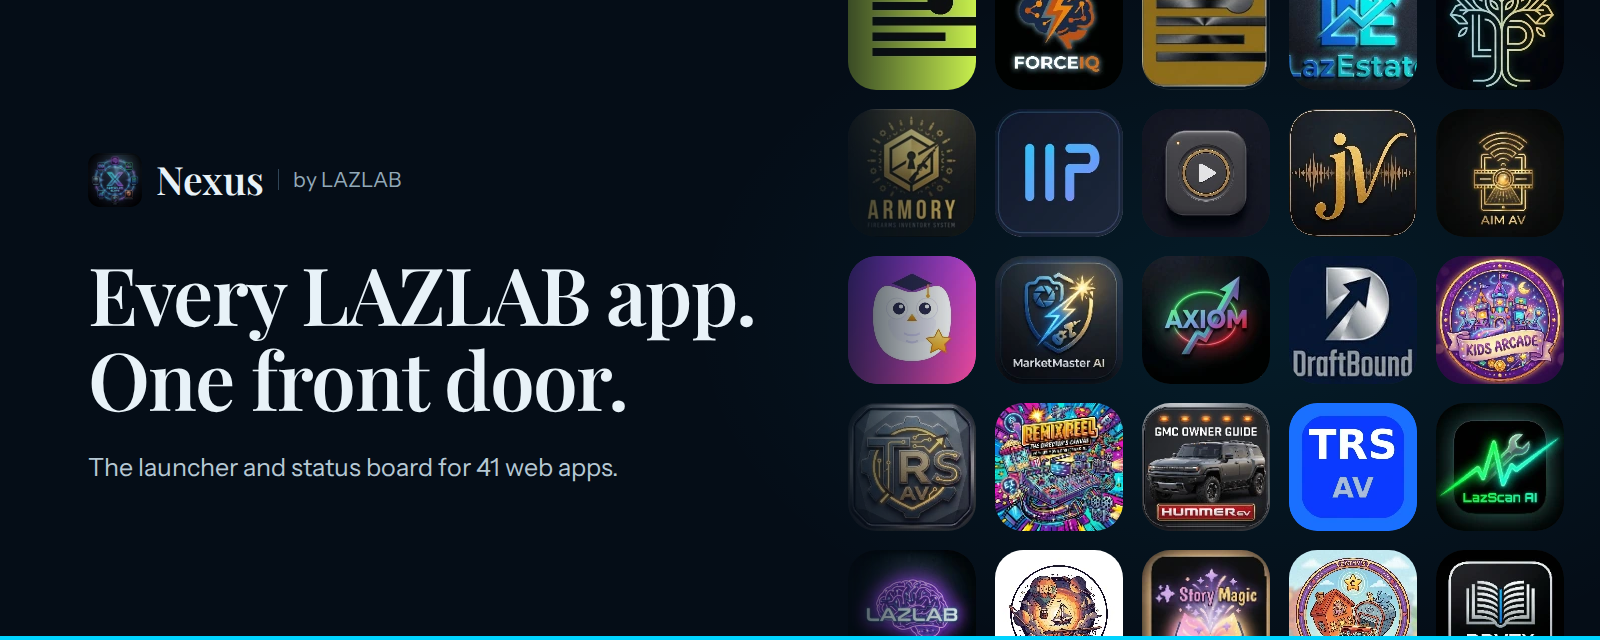
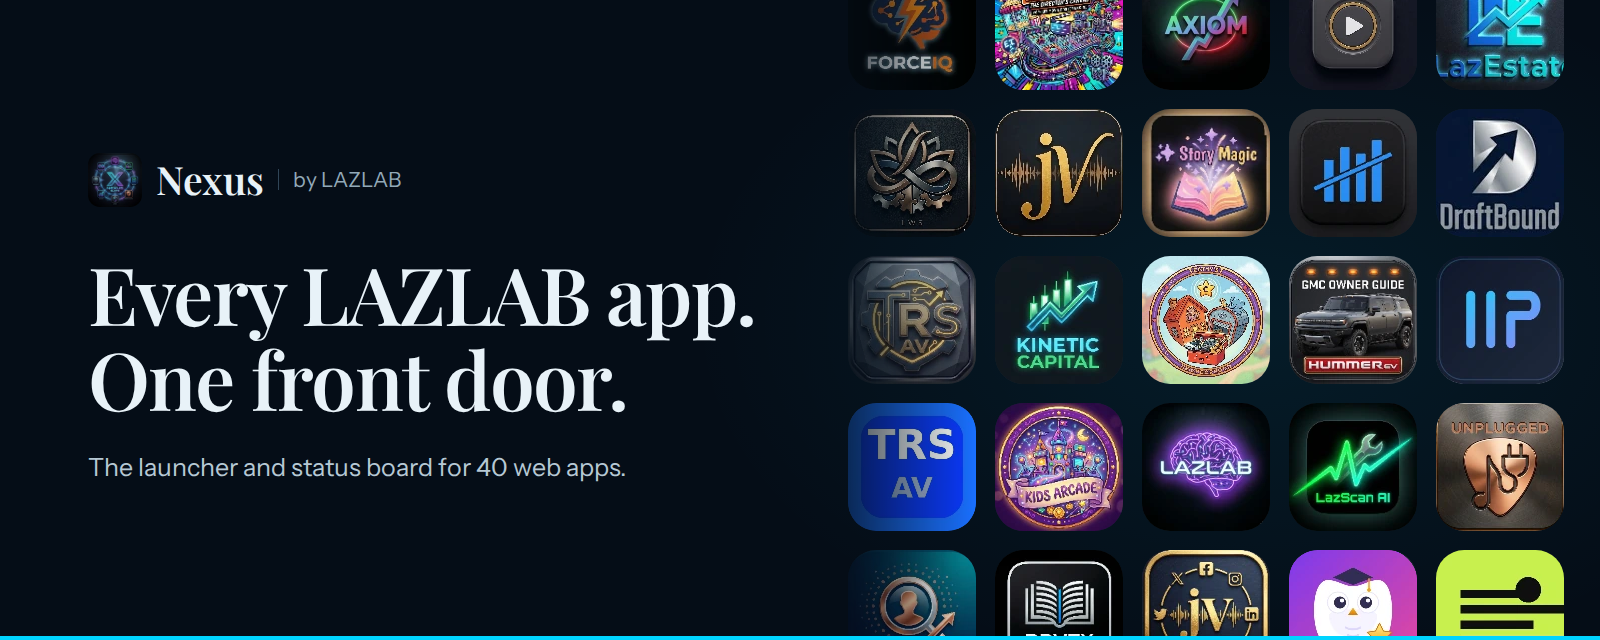
Add files via upload

Changed region(s): [[0.5312, 0.0, 1.0, 1.0], [0.2812, 0.7188, 0.4062, 0.75]]

diff --git a/index.html b/index.html
@@ -8,10 +8,10 @@
 <meta name="apple-mobile-web-app-status-bar-style" content="black-translucent">
 <meta name="apple-mobile-web-app-title" content="Nexus">
 <title>Nexus Suite: every LAZLAB app, one front door</title>
-<meta name="description" content="Nexus Suite by LAZLAB is the launcher and status board for 41 web apps spanning AI, finance, auto, business, creative tools and kids' learning.">
+<meta name="description" content="Nexus Suite by LAZLAB is the launcher and status board for 40 web apps spanning AI, finance, auto, business, creative tools and kids' learning.">
 <meta property="og:type" content="website">
 <meta property="og:title" content="Nexus Suite: every LAZLAB app, one front door">
-<meta property="og:description" content="One launcher and status board for 41 purpose-built web apps by LAZLAB.">
+<meta property="og:description" content="One launcher and status board for 40 purpose-built web apps by LAZLAB.">
 <meta property="og:image" content="https://johnlaz.github.io/nexusapp/media/og-image.png">
 <meta name="twitter:card" content="summary_large_image">
 <link rel="manifest" href="/nexusapp/manifest.json">
@@ -193,6 +193,25 @@ footer .wrap{display:flex;align-items:center;justify-content:space-between;gap:1
 .foot-r a{font-size:14px;color:var(--muted);text-decoration:none;transition:color .15s;}
 .foot-r a:hover{color:var(--text);}
 
+
+/* ── Access modal ── */
+dialog.gate{border:1px solid var(--line2);border-radius:18px;background:var(--panel);color:var(--text);padding:0;width:min(440px,calc(100vw - 32px));box-shadow:0 48px 100px -30px #000;margin:auto;}
+dialog.gate::backdrop{background:rgba(3,8,14,.78);-webkit-backdrop-filter:blur(6px);backdrop-filter:blur(6px);}
+.gate form{padding:32px 32px 28px;}
+.gate h2{font-size:1.7rem;line-height:1.15;}
+.gate p{color:var(--soft);font-size:15px;margin-top:10px;}
+.gate label{display:block;margin-top:24px;font-size:14px;font-weight:500;color:var(--soft);}
+.gate input{display:block;width:100%;margin-top:8px;padding:13px 14px;border-radius:10px;border:1px solid var(--line2);background:var(--ink);color:var(--text);font:400 16px/1.2 var(--sans);}
+.gate input:focus{outline:2px solid var(--cyan);outline-offset:1px;border-color:transparent;}
+.gate input[aria-invalid="true"]{border-color:#ff6b6b;}
+.gate .err{min-height:22px;margin-top:8px;font-size:14px;color:#ff8a8a;}
+.gate .row{display:flex;align-items:center;gap:20px;margin-top:8px;}
+.gate .row .btn{flex:1;}
+.gate .cancel{background:none;border:0;color:var(--muted);font:500 15px/1 var(--sans);cursor:pointer;padding:8px 4px;}
+.gate .cancel:hover{color:var(--text);}
+.gate .help{margin-top:22px;padding-top:18px;border-top:1px solid var(--line);font-size:14px;color:var(--muted);}
+.gate .help a{color:var(--text);}
+
 @media(prefers-reduced-motion:reduce){
   html{scroll-behavior:auto;}
   .pre .pip,.armed .pip{animation:none;background:var(--live);}
@@ -227,7 +246,7 @@ footer .wrap{display:flex;align-items:center;justify-content:space-between;gap:1
         <p class="lede">Nexus is the launcher and status board for the whole portfolio: AI tools, finance, cars, kids' learning, business software and more. Install it once and open anything from there.</p>
         <div class="hero-actions">
           <a class="btn" href="app/index.html">Open Nexus</a>
-          <a class="link" href="#apps">Browse the <span data-count>41</span> apps</a>
+          <a class="link" href="#apps">Browse the <span data-count>40</span> apps</a>
         </div>
         <p class="hero-note">Installs on iPhone, Android, Mac and Windows. No account, and your data stays on your device.</p>
       </div>
@@ -237,7 +256,7 @@ footer .wrap{display:flex;align-items:center;justify-content:space-between;gap:1
           <div class="console-head">
             <div class="console-title"><img src="icons/nexus.webp" width="22" height="22" alt="">All applications</div>
             <div class="console-meta">
-              <span class="count"><b id="cnt" style="font-weight:500">41</b> <i>/</i> <span data-count>41</span></span><span class="count-label">checked</span>
+              <span class="count"><b id="cnt" style="font-weight:500">40</b> <i>/</i> <span data-count>40</span></span><span class="count-label">checked</span>
               <button class="rerun" id="rerun" type="button">
                 <svg viewBox="0 0 24 24" fill="none" stroke="currentColor" stroke-width="2" stroke-linecap="round" stroke-linejoin="round" aria-hidden="true"><path d="M21 12a9 9 0 1 1-3-6.7"/><path d="M21 4v5h-5"/></svg>
                 Run check
@@ -324,6 +343,21 @@ footer .wrap{display:flex;align-items:center;justify-content:space-between;gap:1
     </ul>
   </div>
 </footer>
+
+
+<dialog class="gate" id="gate" aria-labelledby="gate-h">
+  <form method="dialog" id="gate-form" novalidate>
+    <h2 id="gate-h">Enter the access code</h2>
+    <p>Nexus is available by invitation. To gain access, email <a class="link" href="mailto:lazlab.io@gmail.com?subject=Nexus%20access%20request">lazlab.io@gmail.com</a>.</p>
+    <label for="gate-code">Access code</label>
+    <input id="gate-code" type="password" autocomplete="off" autocapitalize="off" spellcheck="false" aria-describedby="gate-err">
+    <div class="err" id="gate-err" role="alert"></div>
+    <div class="row">
+      <button class="btn" type="submit">Open Nexus</button>
+      <button class="cancel" type="button" id="gate-cancel">Cancel</button>
+    </div>
+  </form>
+</dialog>
 
 <script>
 (function () {
@@ -605,14 +639,6 @@ footer .wrap{display:flex;align-items:center;justify-content:space-between;gap:1
   "url": "https://johnlaz.github.io/db"
  },
  {
-  "slug": "lazpool",
-  "name": "LAZPOOL",
-  "group": "Life & Hobby",
-  "desc": "Pool controller connected to Home Assistant.",
-  "url": "https://johnlaz.github.io/lazpool/",
-  "dev": true
- },
- {
   "slug": "wellness-suite",
   "name": "Wellness Strategy Suite",
   "group": "Life & Hobby",
@@ -657,6 +683,39 @@ footer .wrap{display:flex;align-items:center;justify-content:space-between;gap:1
       s.hidden = !(f === 'all' || s.getAttribute('data-group') === f);
     });
   });
+
+
+  /* ── Access gate for the Nexus app (a light engagement layer, not security) ── */
+  var CODE = 'laz';          // change the access code here
+  var REMEMBER = true;       // false = ask every time
+  var APP_URL = 'app/index.html';
+  var gate = document.getElementById('gate');
+  var form = document.getElementById('gate-form');
+  var input = document.getElementById('gate-code');
+  var err = document.getElementById('gate-err');
+  function unlocked() { try { return REMEMBER && localStorage.getItem('nexus-access') === '1'; } catch (e) { return false; } }
+  function openGate() {
+    if (unlocked() || typeof gate.showModal !== 'function') { location.href = APP_URL; return; }
+    input.value = ''; err.textContent = ''; input.removeAttribute('aria-invalid');
+    gate.showModal(); input.focus();
+  }
+  document.addEventListener('click', function (e) {
+    var a = e.target.closest('a[href="' + APP_URL + '"]');
+    if (!a || e.defaultPrevented || e.button) return;
+    e.preventDefault(); openGate();
+  });
+  form.addEventListener('submit', function (e) {
+    e.preventDefault();
+    if (input.value.trim().toLowerCase() === CODE) {
+      try { if (REMEMBER) localStorage.setItem('nexus-access', '1'); } catch (x) {}
+      location.href = APP_URL;
+    } else {
+      err.textContent = "That code didn't work. Check it and try again, or email for access.";
+      input.setAttribute('aria-invalid', 'true'); input.select();
+    }
+  });
+  document.getElementById('gate-cancel').addEventListener('click', function () { gate.close(); });
+  gate.addEventListener('click', function (e) { if (e.target === gate) gate.close(); });
 
   /* ── Hero console: a mini status board ── */
   var wall = document.getElementById('wall');
